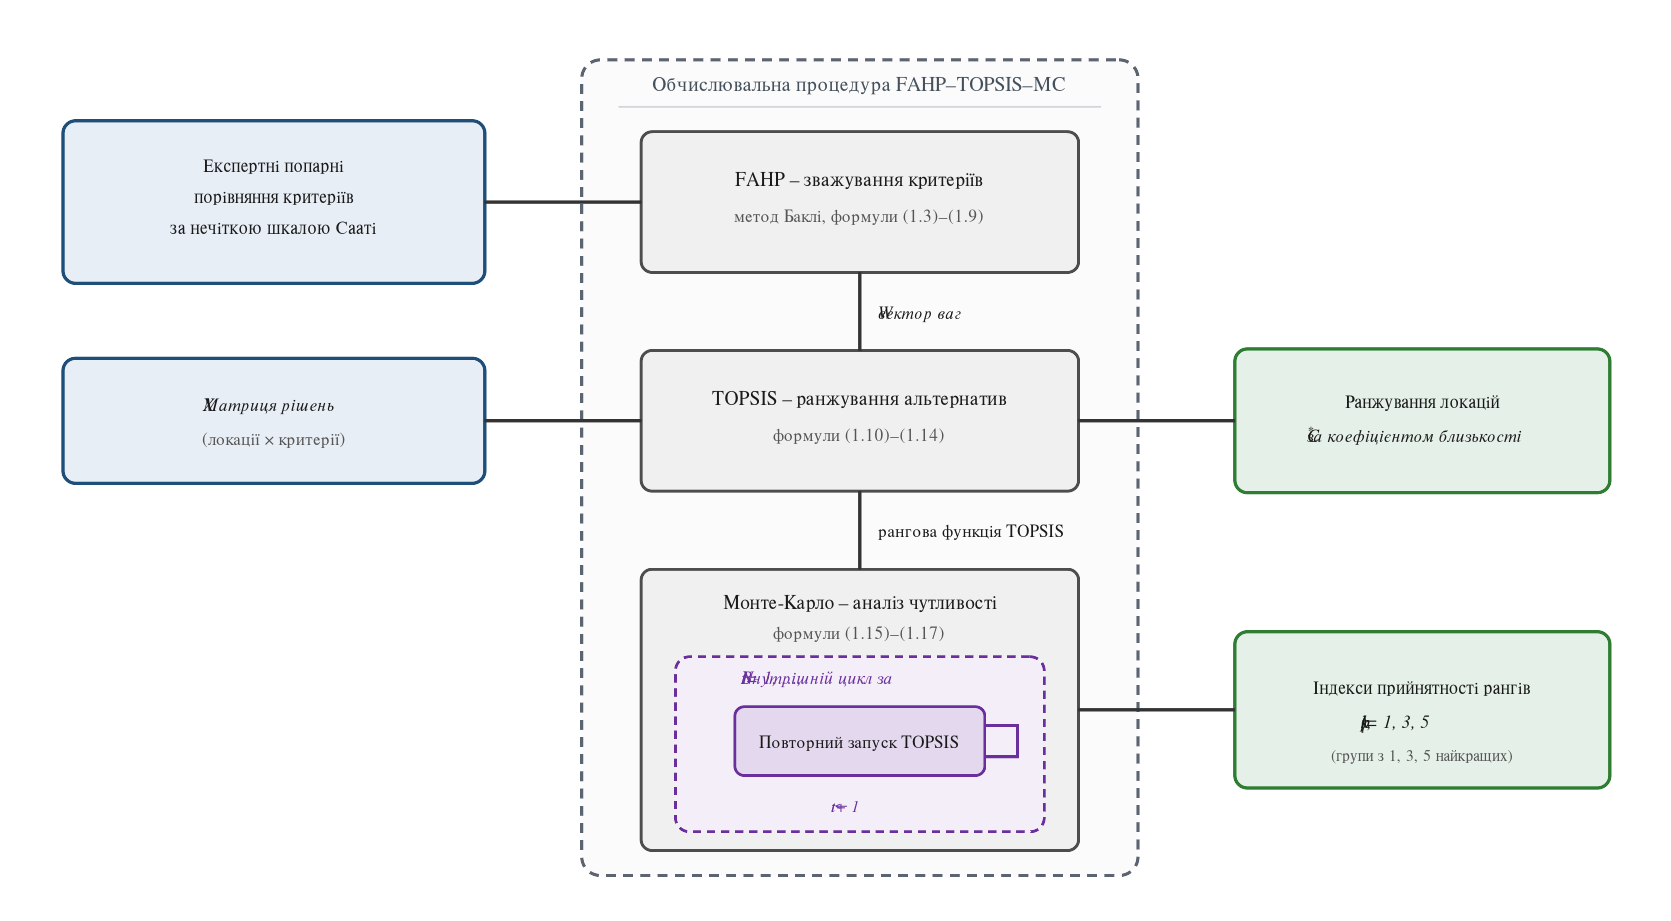
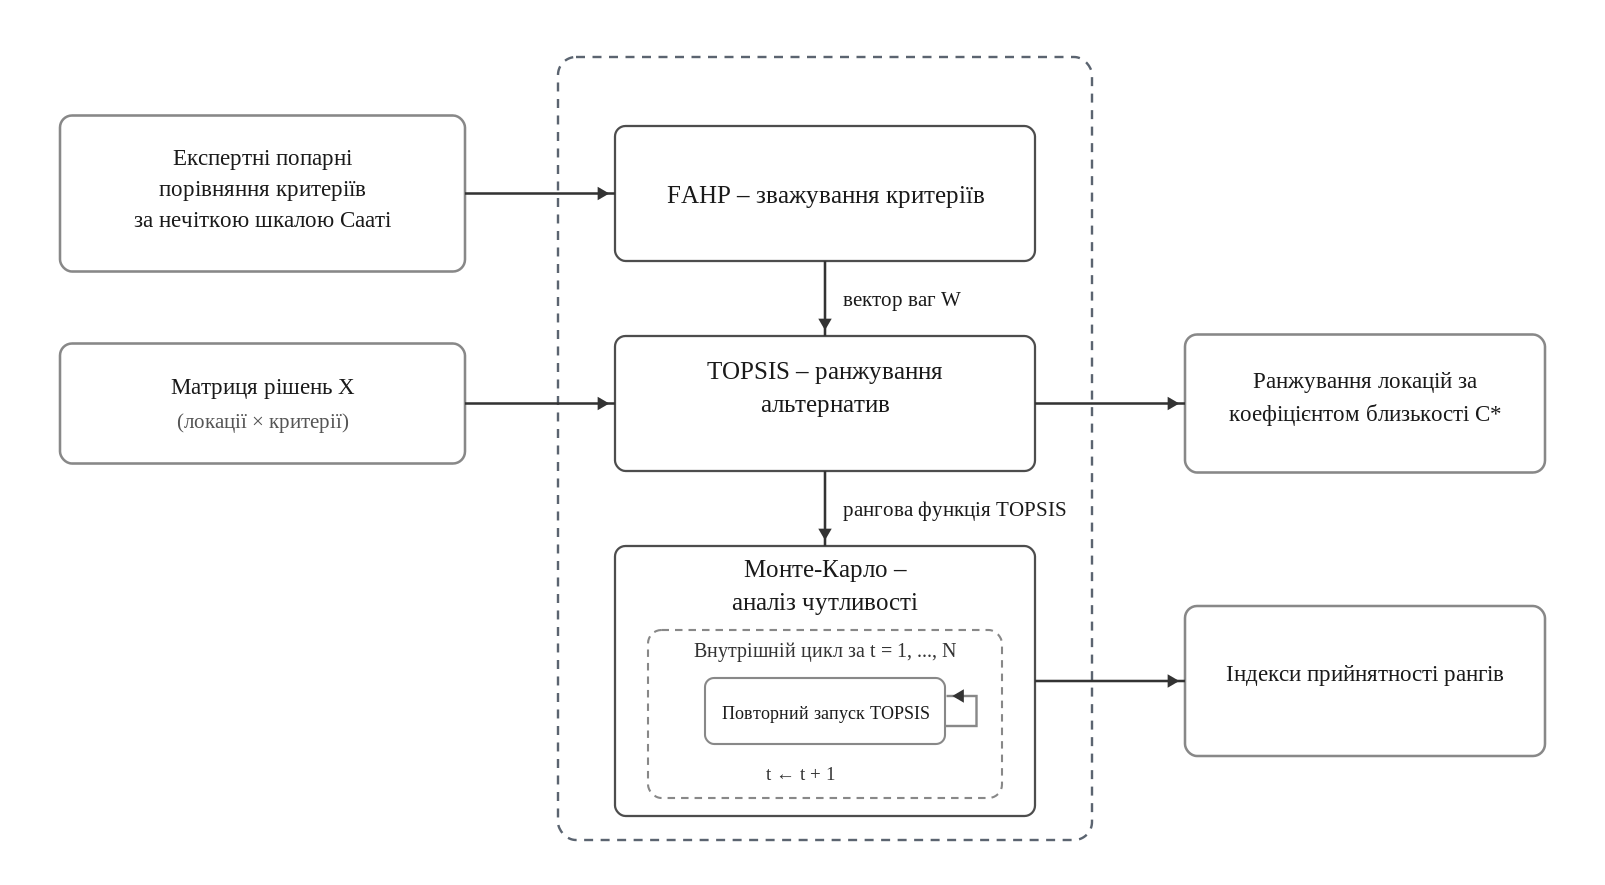
docs: update chapter3, diagrams, figures, and structure
Extend chapter3 sections 3.1.1 and 3.2, revise PlantUML diagrams for
use-case and structural scheme, update MCDM pipeline figures, refine
coursework structure outline and bibliography list.

diff --git a/docs/СТРУКТУРА_КУРСОВОЇ.md b/docs/СТРУКТУРА_КУРСОВОЇ.md
@@ -23,7 +23,7 @@
 #### 1.1.2. Сучасний стан і перспективи розвитку зарядної інфраструктури електромобілів
 Огляд динаміки парку електромобілів, вимог Регламенту (ЄС) 2023/1804 (AFIR) і потреби в публічній зарядній потужності в Україні.
 
-#### 1.1.3. Порівняльний огляд наукових підходів до вибору локацій зарядних станцій електромобілів
+#### 1.1.3. Порівняльний огляд наукових підходів до вибору локацій зарядних станцій електромобілів електромобілів
 Зіставлення закордонних досліджень за методами зважування, ранжування, кількістю критеріїв, профілями ОПР і наявністю аналізу чутливості.
 
 ### 1.2. Математичний алгоритм, моделі та методи прийняття рішень для вибору локацій зарядних станцій
@@ -32,8 +32,8 @@
 #### 1.2.1. Класифікація та порівняльний аналіз методів багатокритеріального прийняття рішень
 Поділ методів MCDM на класи зважування і ранжування з обґрунтуванням вибору FAHP і TOPSIS для задачі розміщення зарядних станцій.
 
-#### 1.2.2. Математичний апарат методу FAHP за схемою Чанга
-Подання трикутних нечітких чисел, фаззифікація шкали Сааті, обчислення синтетичних екстентів, ступенів можливості та дефаззифікація ваг.
+#### 1.2.2. Математичний апарат методу FAHP за схемою Баклі
+Подання трикутних нечітких чисел, фазифікація шкали Сааті, обчислення середніх геометричних рядків нечіткої матриці, формування нечітких ваг і центроїдна дефазифікація з нормалізацією.
 
 #### 1.2.3. Математичний апарат методу TOPSIS
 Нормалізація матриці рішень, побудова ідеальних розв'язків, обчислення евклідових відстаней і коефіцієнта близькості $C_i^*$.
@@ -98,38 +98,22 @@ OpenStreetMap, Open Charge Map і офіційні джерела демогра
 
 ---
 
-## 3. РЕАЛІЗАЦІЯ СИСТЕМИ ЗА ТЕМОЮ КУРСОВОЇ РОБОТИ
+## 3. РЕАЛІЗАЦІЯ СИСТЕМИ ВИБОРУ ЛОКАЦІЙ ЗАРЯДНИХ СТАНЦІЙ
 > ~14 стор.
 
-### 3.1. Реалізація інтерфейсу та функцій програмного продукту
+### 3.1. Програмна реалізація системи вибору локацій зарядних станцій
 > ~7 стор.
 
-#### 3.1.1. Програмні засоби та технології реалізації системи
-Перелік мов програмування, фреймворків, СУБД і бібліотек, застосованих для реалізації функцій клієнтської та серверної частин.
+#### 3.1.1. Програмні засоби та реалізація функцій системи
+Перелік мов програмування, фреймворків, СУБД і бібліотек; три принципи проектування (ізоляція ядра, MapLibre без ключів, OpenAPI як єдиний контракт); фрагменти коду модулів FAHP, TOPSIS і Монте-Карло з прив'язкою до формул розділу 1.
 
-#### 3.1.2. Структура інтерфейсу користувача
-Опис екранних форм клієнтської частини і навігаційних переходів між ними із посиланнями на скріншоти у додатках.
+#### 3.1.2. Структура інтерфейсу та звітні форми системи
+Опис покрокового сеансу ОПР: п'ять екранних форм (профіль і матриця, ваги FAHP, ранжування TOPSIS, чутливість Монте-Карло, порівняння профілів) і перелік форматів виведення результатів (таблиця ранжування, картографічний шар, діаграми, індекси прийнятності рангів, експорт CSV/JSON/PNG/SVG).
 
-#### 3.1.3. Фрагменти реалізації обчислювального ядра
-Окремі ділянки авторського коду модулів FAHP, TOPSIS і Монте-Карло з посиланнями на повний лістинг у додатках.
-
-#### 3.1.4. Перелік звітних форм системи
-Опис форматів виведення результатів – ранжування локацій, картографічного шару, індексів прийнятності рангів і експорту – із посиланнями на зразки у додатках.
-
-### 3.2. Тестування та аналіз результатів роботи системи
+### 3.2. Тестування та аналіз результатів роботи системи вибору локацій зарядних станцій
 > ~7 стор.
 
-#### 3.2.1. Методика тестування системи
-Опис типів тестів – юніт-, інтеграційних та обчислювального експерименту, – еталонних даних з літератури і метрик оцінювання ефективності.
-
-#### 3.2.2. Результати функціонального тестування
-Узагальнені таблиці тестових випадків з фактичними і очікуваними результатами для модулів FAHP, TOPSIS та Монте-Карло.
-
-#### 3.2.3. Результати обчислювального експерименту
-Ранжування 12 локацій-кандидатів у м. Києві для двох профілів ОПР з картографічним поданням результатів.
-
-#### 3.2.4. Аналіз ефективності за результатами тестування
-Узагальнена обробка результатів у вигляді таблиць і діаграм, оцінка стійкості ранжування за індексами прийнятності рангів і порівняння двох профілів за коефіцієнтом рангової кореляції Спірмена.
+Функціональне тестування за набором тест-кейсів (перелік – у додатку Б) і звірка обчислювального ядра з контрольними прикладами з літератури. Обчислювальний експеримент: ваги критеріїв для профілю міської адміністрації (табл. 3.2), ранжування 12 локацій-кандидатів м. Києва за $C_i^*$ (табл. 3.3), аналіз стійкості Монте-Карло ($N = 10\,000$, $\delta = 0{,}15$) і матриця індексів прийнятності рангів (табл. 3.4). Порівняння двох профілів ОПР за розбіжностями рангів (табл. 3.5) і коефіцієнтом рангової кореляції Спірмена ($\rho \approx 0{,}587$).
 
 ---
 

diff --git a/docs/список_джерел.md b/docs/список_джерел.md
@@ -1,8 +1,8 @@
 # СПИСОК ВИКОРИСТАНИХ ДЖЕРЕЛ
 
-1. Hwang C.-L., Yoon K. Multiple Attribute Decision Making: Methods and Applications. A State-of-the-Art Survey. New York : Springer, 2012.
+1. Hwang C.-L., Yoon K. Multiple Attribute Decision Making: Methods and Applications. A State-of-the-Art Survey. Berlin: Springer, 1981. 269 p.
 
-2. Saaty T., Vargas L. The Analytic Hierarchy Process. 2022. ISBN 978-1-4614-3597-6.
+2. Saaty T.L., Vargas L.G. Models, Methods, Concepts & Applications of the Analytic Hierarchy Process. 2nd ed. New York: Springer, 2012. 346 p.
 
 3. Kumar R., Pamucar D. A Comprehensive and Systematic Review of Multi-Criteria Decision-Making (MCDM) Methods to Solve Decision-Making Problems: Two Decades from 2004 to 2024. Spectrum of Decision Making and Applications. 2025. Vol. 2, № 1. P. 177–196. DOI: 10.31181/sdmap21202524.
 
@@ -18,7 +18,7 @@
 
 9. De Oliveira M.S., Steffen V., Trojan F. Systematic Literature Review on Electric Vehicles and Multicriteria Decision Making: Trends, Rankings, and Future Perspectives. JIMD. 2024. Vol. 3, № 1. P. 22–41. DOI: 10.56578/jimd030103.
 
-10. Guler D., Yomralioglu T. Suitable location selection for the electric vehicle fast charging station with AHP and fuzzy AHP methods using GIS. Annals of GIS. 2020. Vol. 26. DOI: 10.1080/19475683.2020.1737226.
+10. Guler D., Yomralioglu T. Suitable location selection for the electric vehicle fast charging station with AHP and fuzzy AHP methods using GIS. Annals of GIS. 2020. Vol. 26, № 2. P. 169–189. DOI: 10.1080/19475683.2020.1737226.
 
 11. Chumbi W., Martínez-Minga R., Zambrano-Asanza S., Leite J., Franco J. Suitable Site Selection of Public Charging Stations: A Fuzzy TOPSIS MCDA Framework on Capacity Substation Assessment. Energies. 2024. Vol. 17. P. 3452. DOI: 10.3390/en17143452.
 
@@ -38,19 +38,19 @@
 
 19. Шевченко М., Урняєва І., Чайковська О. Математичне моделювання розміщення регіональної інфраструктури зарядних станцій електромобілів. Цифрова платформа: інформаційні технології в соціокультурній сфері. 2025. Т. 8, № 2. С. 492–502. DOI: 10.31866/2617-796X.8.2.2025.347951.
 
-20. Caylor J.P., Hanratty T.P. Survey of Multi Criteria Decision Making Methods for Complex Environments. Б. м. : Б. в., б. р.
+20. Caylor J.P., Hammell R.J., Hanratty T.P., Heilman E.G., Richardson J.T. Survey of Multi-Criteria Decision-Making Methods for Complex Environments: ARL-TR-9054. Adelphi, MD: US Army Research Laboratory, 2020.
 
 21. Chang D.-Y. Applications of the extent analysis method on fuzzy AHP. European Journal of Operational Research. 1996. Vol. 95, № 3. P. 649–655.
 
-22. Fuzzy Multi-Criteria Decision Making / ed. C. Kahraman. Boston : Springer US, 2008. (Optimization and Its Applications ; Vol. 16). DOI: 10.1007/978-0-387-76813-7.
+22. Fuzzy Multi-Criteria Decision Making: Theory and Applications with Recent Developments / ed. C. Kahraman. Boston: Springer, 2008. 590 p. (Springer Optimization and Its Applications; Vol. 16). DOI: 10.1007/978-0-387-76813-7.
 
 23. Sani G.M., Abas A.M., Yusoff N., Said M.F. Site selection for electric vehicle charging stations using GIS with MCDM AHP FAHP and TOPSIS techniques. A Review. IOP Conf. Ser.: Earth Environ. Sci. 2023. Vol. 1274, № 1. P. 012019. DOI: 10.1088/1755-1315/1274/1/012019.
 
-24. Lassey M.K. Comparative Analysis of PROMETHEE, VIKOR and TOPSIS for Logistics Centre Location Selection MCDM Problem. 2025. DOI: 10.21203/rs.3.rs-7870462/v1. URL: https://www.researchsquare.com/article/rs-7870462/v1 (дата звернення: 12.05.2026).
+24. Lassey M.K. Comparative Analysis of PROMETHEE, VIKOR and TOPSIS for Logistics Centre Location Selection MCDM Problem. 2025. DOI: 10.21203/rs.3.rs-7870462/v1.
 
 25. Buckley J.J. Fuzzy hierarchical analysis. Fuzzy Sets and Systems. 1985. Vol. 17, № 3. P. 233–247. DOI: 10.1016/0165-0114(85)90090-9.
 
-26. Fan A., Yang C. Optimal site selection of electric vehicle charging station based on fuzzy AHP-TOPSIS. Б. м. : Б. в., б. р.
+26. Fan A., Yang C. Optimal site selection of electric vehicle charging station based on fuzzy AHP-TOPSIS. Production and Operations Management Society 27th Annual Conference (Orlando, FL, 6–9 May 2016). 2016.
 
 27. Wang Y.-M., Luo Y., Hua Z. On the extent analysis method for fuzzy AHP and its applications. European Journal of Operational Research. 2008. Vol. 186, № 2. P. 735–747. DOI: 10.1016/j.ejor.2007.01.050.
 
@@ -58,7 +58,7 @@
 
 29. Lahdelma R., Salminen P. SMAA-2: Stochastic Multicriteria Acceptability Analysis for Group Decision Making. Operations Research. 2001. Vol. 49, № 3. P. 444–454. DOI: 10.1287/opre.49.3.444.11220.
 
-30. Kendall M.G., Gibbons J.D. Rank Correlation Methods. New York : Oxford University Press, 1990.
+30. Kendall M.G., Gibbons J.D. Rank Correlation Methods. 5th ed. New York: Oxford University Press, 1990. 260 p.
 
 31. Abuabara R.M., Robles C.A., Camargo L.L. A multicriteria model for prioritizing 5G network deployment with Monte Carlo stability analysis: A case study in Magdalena. PLOS ONE. 2025. Vol. 20, № 10. P. e0334781. DOI: 10.1371/journal.pone.0334781.
 

diff --git a/.claude/skills/coursework-docx-build/SKILL.md b/.claude/skills/coursework-docx-build/SKILL.md
@@ -105,7 +105,11 @@ inline PlantUML source as a fenced code block. The build script strips
 ### 5. Pandoc-style `[@key]` citations need numeric conversion
 
 The MD files use Pandoc citation syntax `[@chang_applications_1996]`. The
-methodology requires `[N]` (number only) or `[N, p]` (number + page).
+methodology requires numeric citations. Format rules (з методички):
+- `,` — відділяє номер джерела від сторінки (або діапазону сторінок)
+- `;` — розділяє різні джерела всередині дужок
+- Приклад: `[16, 44; 18, 7-13]` — стор. 44 у джерелі №16, стор. 7–13 у джерелі №18
+- Без сторінки: `[N]`; кілька без сторінок: `[N1; N2]`
 Conversion is done by `build_master_md.py` using
 `outputs/coursework_build/citations_map.json` (mapping bibtex key → appearance
 number) and `page_lookups.json` (verified page numbers for SPECIFIC citations).

diff --git a/.claude/skills/coursework-docx-build/references/pipeline-detail.md b/.claude/skills/coursework-docx-build/references/pipeline-detail.md
@@ -77,8 +77,10 @@ Applies preprocessing:
 - **`\tag{N.N}`:** strip and collect numbers; re-attach after each `$$` block
   as a right-aligned span.
 - **Math fixes:** `\!` → space, `\,` → space, `\mathbb{X}` → `\mathbf{X}`.
-- **Citations:** convert `[@key]` and `[@k1; @k2]` to `[N]` / `[N, p]` /
-  `[N1; N2]`.
+- **Citations:** convert `[@key]` and `[@k1; @k2]` to numeric form.
+  Format (з методички): `,` — відділяє джерело від сторінки/діапазону;
+  `;` — між різними джерелами. Приклад: `[16, 44; 18, 7-13]` — стор. 44
+  у джерелі №16, стор. 7–13 у джерелі №18. Без сторінки: `[N]` або `[N1; N2]`.
 - **Quotes:** alternate straight `"..."` → «...» outside of code blocks.
 
 ### 4. pandoc step

diff --git a/docs/chapter1/1_1_3.md b/docs/chapter1/1_1_3.md
@@ -4,7 +4,7 @@
 
 Задачу вибору локацій зарядних станцій активно досліджують у різних країнах, переважно методами багатокритеріального прийняття рішень [@katontoka_toward_2025; @de_oliveira_systematic_2024]. Підходи різняться насамперед способом визначення ваг критеріїв: найпоширенішим є метод аналізу ієрархій (Analytic Hierarchy Process, AHP) та його нечітка модифікація Fuzzy AHP (FAHP), що враховує лінгвістичну невизначеність експертних суджень [@guler_suitable_2020; @chumbi_suitable_2024]; застосовують також зважування на основі трикутних інтуїціоністських нечітких чисел (TIFN) [@wu_decision_2017] та об'єктивне зважування за взаємною кореляцією критеріїв – метод CRITIC [@krishankumar_multi-criteria_2024]. Для підсумкового ранжування локацій здебільшого використовують метод TOPSIS, рідше – методи VIKOR чи CRADIS.
 
-Значна частина робіт інтегрує оцінювання з геоінформаційними системами (далі – ГІС): бібліометричний огляд бази Web of Science (1336 публікацій за 2016–2025 роки) підтверджує, що поєднання ГІС і методів MCDM є домінівним [@li_trends_2025]. Окремі дослідження доповнюють ранжування аналізом чутливості результату – наприклад, процедурою послідовного вилучення критеріїв (Removal Sensitivity Analysis, RSA) [@ouerghi_integrated_2026], – проте така перевірка лишається радше винятком.
+Значна частина робіт інтегрує оцінювання з геоінформаційними системами (далі – ГІС): бібліометричний огляд бази Web of Science (1336 публікацій за 2016–2025 роки) підтверджує, що поєднання ГІС і методів MCDM є домінівним [@li_trends_2025]. Окремі дослідження доповнюють ранжування аналізом чутливості результату – наприклад, процедурою послідовного вилучення критеріїв (Removal Sensitivity Analysis, RSA) [@ouerghi_integrated_2026], інтегрують критерії сталого розвитку при ранжуванні [@guo_optimal_2015] чи поєднують ГІС із MCDM для завдань міського планування й декарбонізації [@spyropoulos_hybrid_2025]; проте такі розширення лишаються радше винятком.
 
 Вітчизняні дослідження з розміщення зарядних станцій нечисленні й перебувають на початковому етапі. У роботі [@liubyi__2020] запропоновано підхід до формування мережі швидких станцій уздовж міжміського коридору Харків–Бердянськ: місця розташування визначають за гранично можливою дальністю ходу електромобіля, описаною гамма-розподілом, а потрібну кількість станцій – за адаптованою методикою будівельних норм. У роботі [@shevchenko_matematychne_2025] задачу розміщення регіональної мережі розв'язують як задачу оптимального покриття (Maximal Covering Location Problem, MCLP) метаевристичними методами. Обидва дослідження належать до оптимізаційно-аналітичної парадигми: вони не оперують множиною суперечливих критеріїв і не передбачають кількох профілів ОПР. Багатокритеріальна СППР для вибору локацій у межах окремого міста, як і відкриті програмні реалізації цієї задачі, в Україні відсутні.
 

diff --git a/docs/chapter3/3_2.md b/docs/chapter3/3_2.md
@@ -45,6 +45,8 @@
 
 Рис. 3.2. Ранжування локацій-кандидатів для профілю міської адміністрації
 
+На рис. 3.2 подано результати ранжування у двох поданнях: таблиця містить коефіцієнти близькості $C_i^*$ та відстані $S_i^+$ і $S_i^-$ для кожної локації, а маркери на карті кодують ранг кольором – від зеленого для лідерів до червоного для аутсайдерів. Голосіїво очолює список з $C_i^* = 0{,}6100$ і найменшою відстанню до ідеального розв'язку $S_i^+ = 0{,}0589$, тоді як Деснянська замикає ранжування з $C_i^* = 0{,}2325$ попри мінімальну $S_i^- = 0{,}0352$.
+
 Стійкість ранжування оцінено методом Монте-Карло за $N = 10\,000$ ітерацій збурення ваг з амплітудою $\delta = 0{,}15$. Індекс прийнятності рангів $p_i(k)$ визначає частку симуляцій, у яких локація $i$ посіла місце не нижче $k$-го. Матрицю індексів для порогів $k \in \{1,\,3,\,5\}$ наведено в табл. 3.4.
 
 Таблиця 3.4. – Матриця індексів прийнятності рангів ($N = 10\,000$)